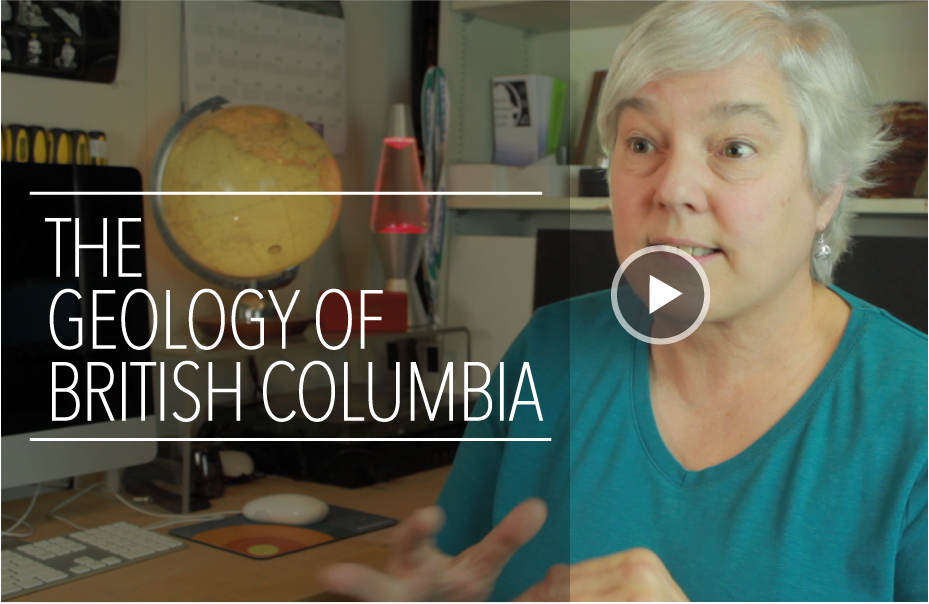
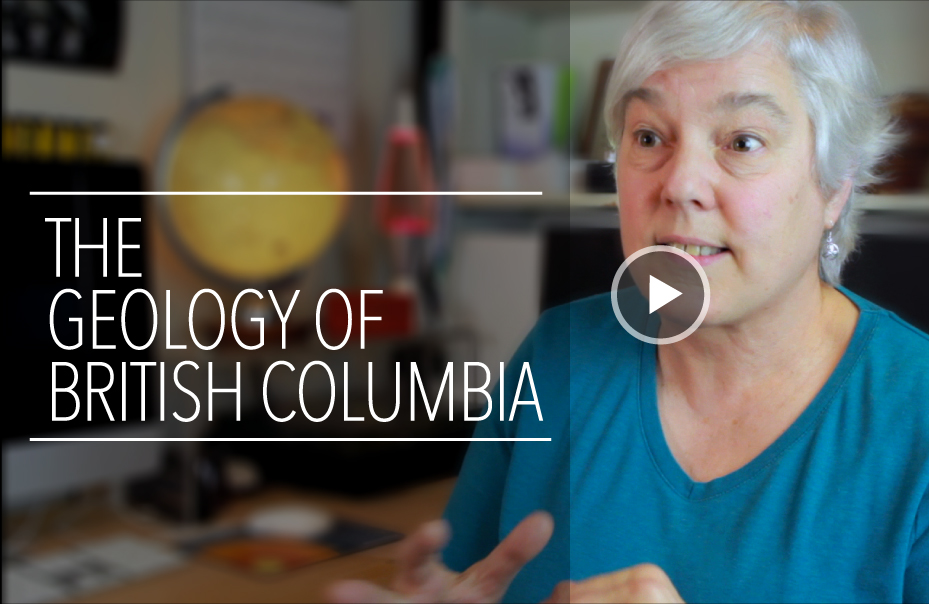
changed images and fade in

diff --git a/source/javascripts/scripts.js b/source/javascripts/scripts.js
@@ -13,50 +13,67 @@ beforeOpen: function lightbox_open() {
   document.getElementById('light').style.display = 'block';
   document.getElementById('fade').style.display = 'block';
   lightBoxVideo.play();
+  lightBoxVideo.addEventListener('ended',lightbox_close,false);
 }
-
-function closeMe(){
-        t = setTimeout("self.close()",3000);
-    }
 
 function lightbox_close() {
   var lightBoxVideo = document.getElementById("video");
-  document.getElementById('light').style.display = 'none';
-  document.getElementById('fade').style.display = 'none';
+  fadeOut(document.getElementById('light'));
+  fadeOut(document.getElementById('fade'));
   lightBoxVideo.pause();
-  video.currentTime = 0;
+  lightBoxVideo.currentTime = 0;
+}
+
+function fadeOut(el){
+  el.style.opacity = 1;
+
+  (function fade() {
+    if ((el.style.opacity -= .1) < 0) {
+      el.style.display = "none";
+    } else {
+      requestAnimationFrame(fade);
+    }
+  })();
 }
 
 
+var timeoutID;
+ 
+function setup() {
+    this.addEventListener("mousemove", resetTimer, false);
+    this.addEventListener("mousedown", resetTimer, false);
+    this.addEventListener("keypress", resetTimer, false);
+    this.addEventListener("DOMMouseScroll", resetTimer, false);
+    this.addEventListener("mousewheel", resetTimer, false);
+    this.addEventListener("touchmove", resetTimer, false);
+    this.addEventListener("MSPointerMove", resetTimer, false);
+ 
+    startTimer();
+}
+setup();
+ 
+function startTimer() {
+    // wait 2 seconds before calling goInactive
+    timeoutID = window.setTimeout(goInactive, 50000);
+}
+ 
+function resetTimer(e) {
+    window.clearTimeout(timeoutID);
+ 
+    goActive();
+}
+ 
+function goInactive() {
+    lightbox_close();
+    window.location.href="page3.html";
 
-
-////////////////////////////////////////
-// Our Script 
-////////////////////////////////////////
-$(document).ready(function(){
-  // Initiate FitVid.js
-  $(".video-container").fitVids();
-
-  // Iframe/player variables
-  var iframe = $('#video')[0];
-  var player = $f(iframe);
-
-  // Open on play
-  $('.play').click(function(){
-    $('.overlay').css('left', 0)
-    $('.overlay').addClass('show')
-    player.api("play");
-  })
-
-  // Closes on click outside
-  $('.overlay').click(function(){
-    $('.overlay').removeClass('show')
-    setTimeout(function() {
-      $('.overlay').css('left', '-100%')
-    }, 300);
-    player.api("pause");
-  })
-});
+}
+ 
+function goActive() {
+    // do something
+         
+    startTimer();
+}
 
 
 

diff --git a/source/stylesheets/style.css.scss b/source/stylesheets/style.css.scss
@@ -59,7 +59,7 @@ body {
 	overflow: hidden;
 	bottom: 36px;
 	left: 968px;
-	background-image: url(/images/what_are_the_light_blue.jpg);
+	background-image: url(/images/what_are_the_light_blue_areas.jpg);
 	background-size: cover;
 }
 
@@ -70,7 +70,7 @@ body {
 	overflow: hidden;
 	bottom: 36px;
 	left: 1280px;
-	background-image: url(/images/lines_on_east_side.jpg);
+	background-image: url(/images/what_are_the_lines_on_the_east.jpg);
 	background-size: cover;
 }
 
@@ -146,11 +146,13 @@ body {
   left: 0%;
   width: 100%;
   height: 100%;
-  background-color: black;
+  background-color: none;
   z-index: 1001;
   -moz-opacity: 0.8;
   opacity: .80;
   filter: alpha(opacity=80);
+  -webkit-animation: fadeout 4s linear forwards;
+  animation: fadeout 4s linear forwards;
 }
 
 #light {
@@ -166,13 +168,15 @@ body {
   background: #FFF;
   z-index: 1002;
   overflow: visible;
+  -webkit-animation: fadein 2s linear forwards;
+  animation: fadein 2s linear forwards;
 }
 
 #boxclose {
   float: center;
   cursor: pointer;
   color: #fff;
-  border: 1px solid #AEAEAE;
+  border: 2px solid #AEAEAE;
   border-radius: 3px;
   background: #222222;
   font-size: 50px;
@@ -202,29 +206,13 @@ light[open] {
     left: 0;
     right: 0;
 }
-@keyframes fadeToNearBlack { 
-  to { background: rgba(0,0,0,0.9); }
-}
-@keyframes goBig { 
-  to { opacity: 1; } 
-}
-nav#thumbs { 
-  display: flex; 
-} 
-nav#thumbs a { 
-  display: block; flex: 1; 
-} 
-nav#thumbs a img { 
-  width: 100%; height: auto; 
+
+@-webkit-keyframes fadein {
+  0% { opacity: 0; }
+  100% { opacity: 1; }
 }
 
-light[open] { 
-  animation: goBig 1s .4s forwards;
-  max-width: 1920px; 
-}
-light[open]::fade { 
-  animation: fadeToNearBlack 1s forwards; 
-}
-#fade { 
-  animation: fadeToNearBlack 1s forwards; 
+@keyframes fadein {
+  0% { opacity: 0; }
+  100% { opacity: 1; }
 }
